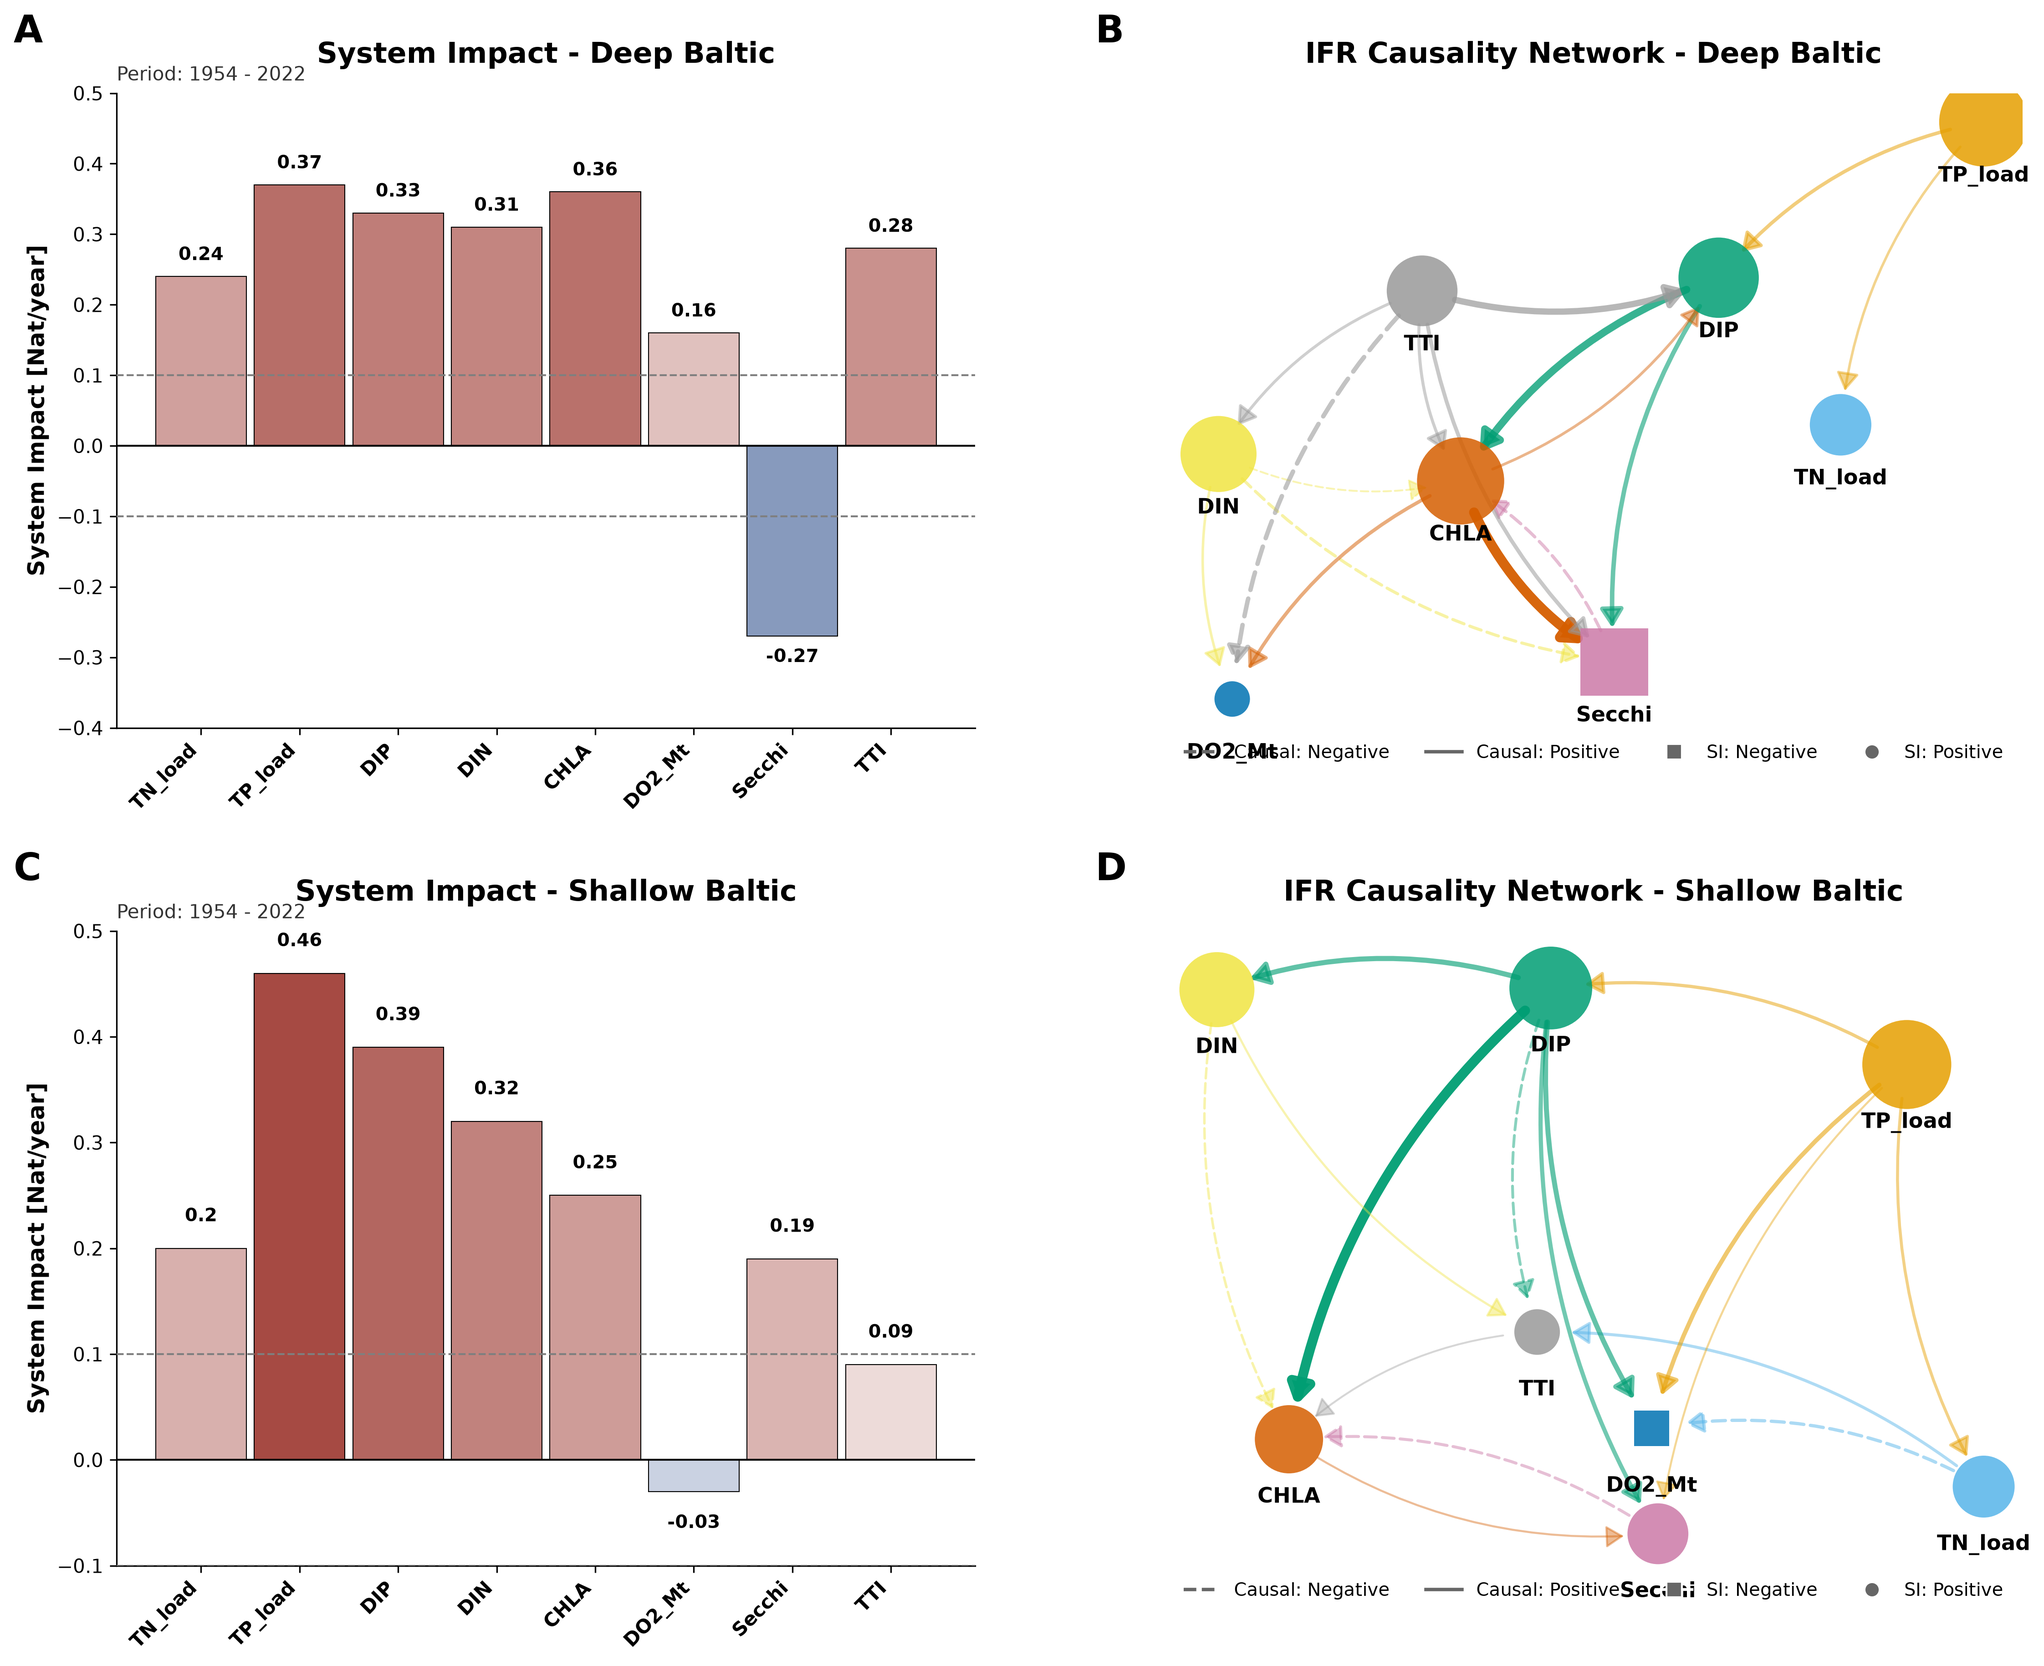
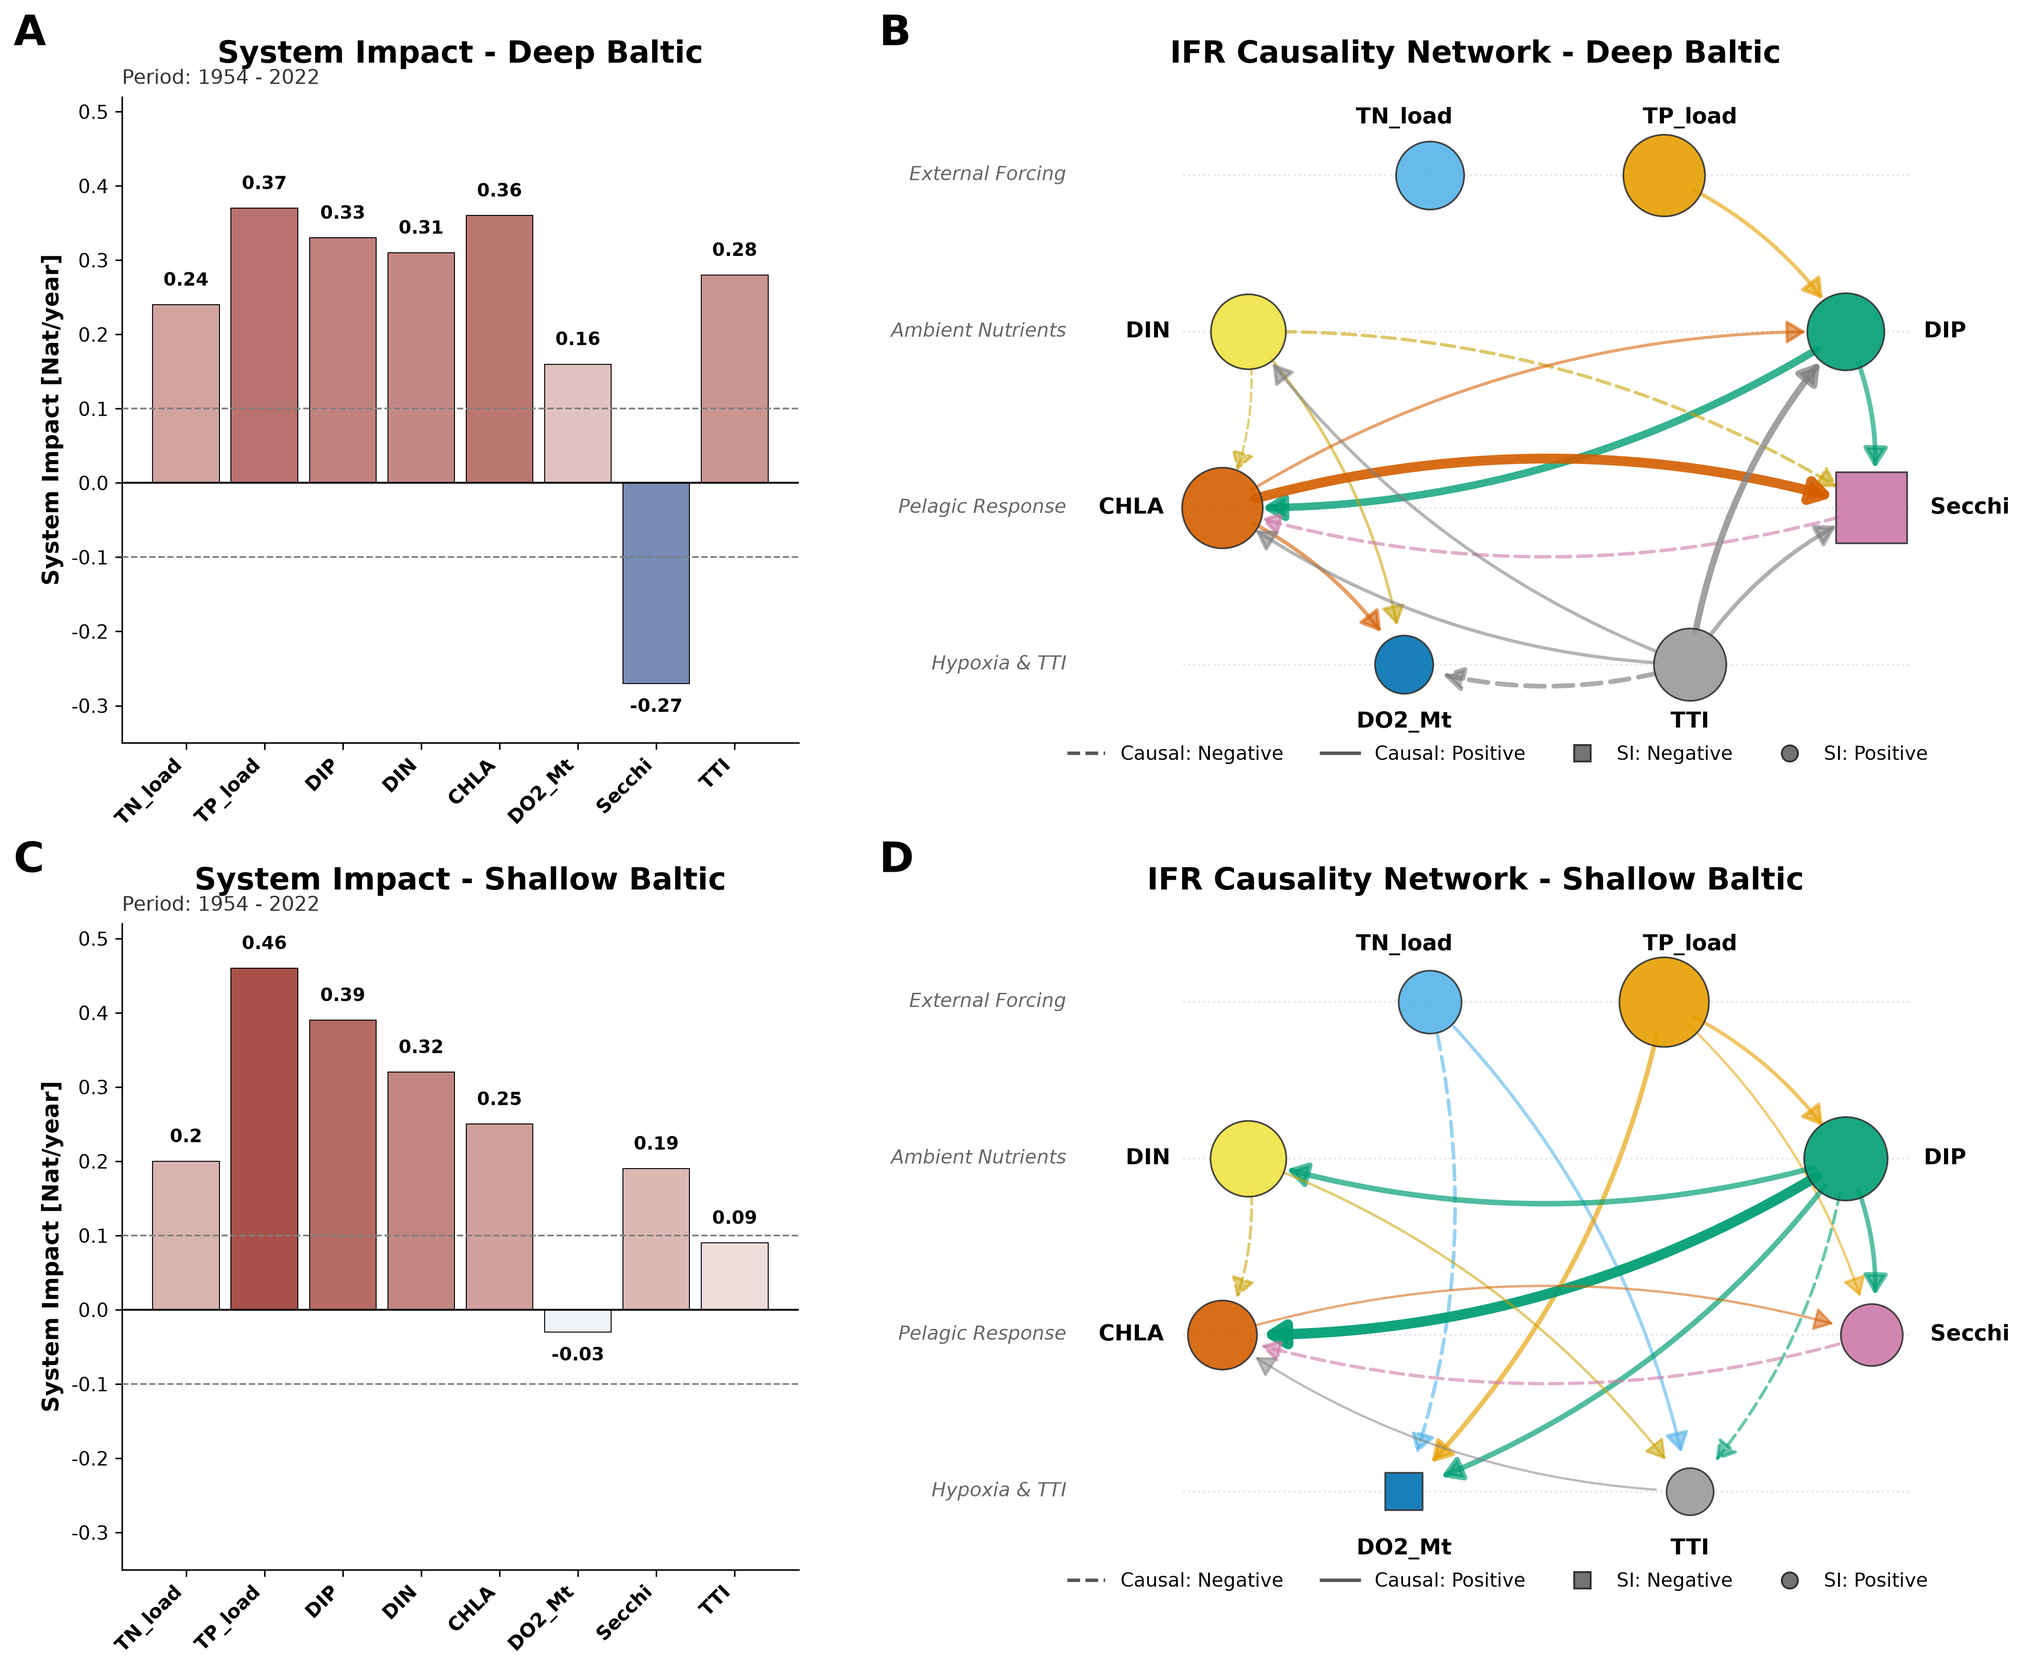
Improved Fig 5 network plot

diff --git a/Plot_Fig5_Final_SI_IFR_network_causal_analysis_Baltic_ecosystem_2026_06_11.py b/Plot_Fig5_Final_SI_IFR_network_causal_analysis_Baltic_ecosystem_2026_06_11.py
@@ -2,7 +2,7 @@
 """
 Baltic Ecosystem Deep and Shallow Variables
 Global System Impact (SI) and Multidimensional Information Flow Rate (IFR) Analysis
-Figure 5 for hysteresis article
+Figure 5 for hysteresis article (Hierarchical Eutrophication Cascade Layout)
 """
 
 import numpy as np
@@ -13,21 +13,66 @@ import matplotlib.pyplot as plt
 from matplotlib.colors import LinearSegmentedColormap, TwoSlopeNorm
 from matplotlib.patches import FancyArrowPatch
 from matplotlib.lines import Line2D
-import networkx as nx
 
-OKABE_ITO_NET = {
+# Okabe-Ito colorblind-friendly palette (separate node fill vs edge stroke for white-bg contrast)
+OKABE_ITO_FILL = {
     "TN_load": "#56B4E9",  # Light Blue
     "TP_load": "#E69F00",  # Orange
     "DIP":     "#009E73",  # Bluish Green
-    "DIN":     "#F0E442",  # Yellow
+    "DIN":     "#F0E442",  # Yellow (outlined in dark grey on nodes)
     "CHLA":    "#D55E00",  # Vermillion
     "DO2_Mt":  "#0072B2",  # Dark Blue
     "Secchi":  "#CC79A7",  # Reddish Purple
     "TTI":     "#999999"   # Grey
 }
 
+OKABE_ITO_EDGE = {
+    "TN_load": "#56B4E9",
+    "TP_load": "#E69F00",
+    "DIP":     "#009E73",
+    "DIN":     "#C8A200",  # Deeper gold so DIN arrows are clearly legible on white
+    "CHLA":    "#D55E00",
+    "DO2_Mt":  "#0072B2",
+    "Secchi":  "#CC79A7",
+    "TTI":     "#7F7F7F"
+}
+
+# Fixed 4-tier mechanistic eutrophication cascade coordinates in [0, 1] x [0, 1]
+TIER_COORDS = {
+    "TN_load": (0.32, 1.00),  # Tier 1: External Forcing (N pathway)
+    "TP_load": (0.68, 1.00),  # Tier 1: External Forcing (P pathway)
+    "DIN":     (0.04, 0.68),  # Tier 2: Ambient Nutrients (N pathway)
+    "DIP":     (0.96, 0.68),  # Tier 2: Ambient Nutrients (P pathway)
+    "CHLA":    (0.00, 0.32),  # Tier 3: Pelagic Response (Biomass)
+    "Secchi":  (1.00, 0.32),  # Tier 3: Pelagic Response (Clarity)
+    "DO2_Mt":  (0.28, 0.00),  # Tier 4: Benthic Hypoxia & Trophic State
+    "TTI":     (0.72, 0.00),  # Tier 4: Benthic Hypoxia & Trophic State
+}
+
+# Outward label offsets: (lx, ly, ha, va)
+NODE_LABELS = {
+    "TN_load": ( 0.28,  1.095, "center", "bottom"),
+    "TP_load": ( 0.72,  1.095, "center", "bottom"),
+    "DIN":     (-0.08,  0.680, "right",  "center"),
+    "DIP":     ( 1.08,  0.680, "left",   "center"),
+    "CHLA":    (-0.09,  0.320, "right",  "center"),
+    "Secchi":  ( 1.09,  0.320, "left",   "center"),
+    "DO2_Mt":  ( 0.28, -0.095, "center", "top"),
+    "TTI":     ( 0.72, -0.095, "center", "top"),
+}
+
+TIER_GUIDES = [
+    (1.00, "External Forcing"),
+    (0.68, "Ambient Nutrients"),
+    (0.32, "Pelagic Response"),
+    (0.00, "Hypoxia & TTI"),
+]
+
+
 def r_scale(df_or_arr):
+    """Replicates R's scale() using sample standard deviation (ddof=1)."""
     return (df_or_arr - np.mean(df_or_arr, axis=0)) / np.std(df_or_arr, axis=0, ddof=1)
+
 
 def global_impact(xxx, np_lag=1):
     """Exact translation of Liang's Global System Impact (GI / SI) function."""
@@ -57,6 +102,7 @@ def global_impact(xxx, np_lag=1):
 
     T1 = np.trace(invC1[1:M, 1:M] @ AC[1:M, 1:M]) - np.trace(A[1:M, 1:M])
     return float(T1)
+
 
 def causal_error_multidim_95(xxx, np_lag=1):
     """Exact translation of Liang (2021) multidimensional Information Flow Rate (T21) and 95% CI."""
@@ -110,6 +156,7 @@ def causal_error_multidim_95(xxx, np_lag=1):
 
     return float(T21), float(err95)
 
+
 def compute_region_metrics(plot_data, var_names):
     x = np.asarray(plot_data, dtype=float)
     M = x.shape[1]
@@ -132,102 +179,110 @@ def compute_region_metrics(plot_data, var_names):
     infoflow = np.round(TT, 2)
     return GG1, gg_ad, infoflow
 
-def plot_gi_panel(ax, var_names, gg_ad, region_name, s_date, e_date, panel_label):
-    ymin = np.floor(np.min(gg_ad) * 10.0 - 0.4) / 10.0
-    ymax = np.ceil(np.max(gg_ad) * 10.0 + 0.35) / 10.0
 
-    # Muted Blue - White - Muted Red diverging colormap
+def plot_gi_panel(ax, var_names, gg_ad, region_name, s_date, e_date, panel_label):
+    # Shared y-axis and colour limits across Deep & Shallow for direct visual comparison
+    ymin, ymax = -0.35, 0.52
+
     cmap = LinearSegmentedColormap.from_list("si_div", ["#4E6A9E", "#FFFFFF", "#9E3B33"])
-    norm = TwoSlopeNorm(vmin=min(ymin, -0.05), vcenter=0.0, vmax=max(ymax, 0.05))
+    norm = TwoSlopeNorm(vmin=ymin, vcenter=0.0, vmax=ymax)
     colors = [cmap(norm(val)) for val in gg_ad]
 
     x_pos = np.arange(len(var_names))
-    ax.bar(x_pos, gg_ad, width=0.92, color=colors, edgecolor="black", linewidth=0.5, zorder=2)
+    ax.bar(x_pos, gg_ad, width=0.85, color=colors, edgecolor="black", linewidth=0.5, zorder=2)
 
     for idx, val in enumerate(gg_ad):
-        y_txt = val + 0.03 * (1 if val >= 0 else -1)
+        y_txt = val + 0.032 * (1 if val >= 0 else -1)
         ax.text(idx, y_txt, f"{val:.2g}" if val in [0.2] else f"{val:.2f}",
                 ha="center", va="center", fontweight="bold", fontsize=9.5, zorder=4)
 
     ax.axhline(0, color="black", linewidth=1.0, zorder=3)
-    ax.axhline(0.1, color="#7F7F7F", linestyle="--", linewidth=1.0, zorder=3)
-    ax.axhline(-0.1, color="#7F7F7F", linestyle="--", linewidth=1.0, zorder=3)
+    ax.axhline(0.1, color="#7F7F7F", linestyle="--", linewidth=0.9, zorder=3)
+    ax.axhline(-0.1, color="#7F7F7F", linestyle="--", linewidth=0.9, zorder=3)
 
+    yticks = np.round(np.arange(-0.3, 0.55, 0.1), 1)
     ax.set_ylim(ymin, ymax)
+    ax.set_yticks(yticks)
+    ax.set_yticklabels([f"{y:.1f}" for y in yticks], fontsize=10)
+
     ax.set_xticks(x_pos)
     ax.set_xticklabels(var_names, rotation=45, ha="right", fontweight="bold", fontsize=10)
     ax.set_ylabel("System Impact [Nat/year]", fontsize=12, fontweight="bold")
-    ax.set_title(f"System Impact - {region_name}", fontsize=15, fontweight="bold", pad=16)
-    ax.text(0.0, 1.02, f"Period: {s_date} - {e_date}", transform=ax.transAxes, fontsize=10, color="#333333")
-    ax.text(-0.12, 1.08, panel_label, transform=ax.transAxes, fontsize=20, fontweight="bold")
+    ax.set_title(f"System Impact - {region_name}", fontsize=16, fontweight="bold", pad=18)
+    ax.text(0.0, 1.02, f"Period: {s_date} - {e_date}", transform=ax.transAxes, fontsize=10.5, color="#333333")
+    ax.text(-0.16, 1.08, panel_label, transform=ax.transAxes, fontsize=22, fontweight="bold")
 
     ax.spines["top"].set_visible(False)
     ax.spines["right"].set_visible(False)
+
 
 def plot_network_panel(ax, var_names, GG1, infoflow, region_name, panel_label):
     adj = infoflow.copy()
     adj[np.isnan(adj)] = 0.0
     adj[np.abs(adj) < 0.1] = 0.0
 
-    G = nx.DiGraph()
-    for idx, name in enumerate(var_names):
-        G.add_node(name, gi_abs=abs(GG1[idx]), gi_sign="Negative" if GG1[idx] < 0 else "Positive")
+    # Enforce exogenous boundary condition: external loads cannot receive causal inflows
+    exog_indices = [i for i, name in enumerate(var_names) if name in ("TN_load", "TP_load")]
+    adj[:, exog_indices] = 0.0
 
+    # Subtle horizontal functional tier guide lines & left-margin labels
+    for ty, tlabel in TIER_GUIDES:
+        ax.plot([-0.06, 1.06], [ty, ty], color="#E5E5E5", linestyle=":", linewidth=1.0, zorder=0)
+        ax.text(-0.24, ty, tlabel, fontsize=10, color="#666666", fontstyle="italic",
+                ha="right", va="center", zorder=1)
+
+    # Fixed global SI node-size scaling [0, 0.50] across Deep and Shallow
+    gi_abs = np.clip(np.abs(GG1), 0.0, 0.50)
+    node_sizes = 240 + (gi_abs / 0.50) * 2150
+
+    for idx, n in enumerate(var_names):
+        px, py = TIER_COORDS[n]
+        marker = "s" if GG1[idx] < 0 else "o"
+        ax.scatter(px, py, s=node_sizes[idx], facecolor=OKABE_ITO_FILL[n],
+                   marker=marker, alpha=0.90, edgecolors="#333333", linewidths=0.9, zorder=3)
+        lx, ly, ha, va = NODE_LABELS[n]
+        ax.text(lx, ly, n, fontsize=11.5, fontweight="bold",
+                ha=ha, va=va, color="black", zorder=5)
+
+    # Directed causal edges with fixed global IFR scaling [0.10, 0.65]
     M = len(var_names)
     for i in range(M):
         for j in range(M):
-            if adj[i, j] != 0:
-                G.add_edge(var_names[i], var_names[j], weight=adj[i, j],
-                           flow_strength=abs(adj[i, j]),
-                           flow_sign="Positive" if adj[i, j] > 0 else "Negative")
+            w = adj[i, j]
+            if w != 0.0:
+                u, v = var_names[i], var_names[j]
+                s_abs = abs(w)
+                norm_s = np.clip((s_abs - 0.10) / (0.65 - 0.10), 0.0, 1.0)
+                lw = 1.1 + norm_s * 4.5
+                alpha = 0.52 + norm_s * 0.43
+                ls = "solid" if w > 0 else (0, (4, 2))
 
-    pos = nx.kamada_kawai_layout(G, weight=None)
+                # rad=-0.15 bends clockwise (right-hand rule), matching ggplot2 curvature=+0.15
+                patch = FancyArrowPatch(
+                    posA=TIER_COORDS[u], posB=TIER_COORDS[v],
+                    connectionstyle="arc3,rad=-0.15",
+                    arrowstyle="-|>,head_length=8.5,head_width=5.2",
+                    color=OKABE_ITO_EDGE[u], linewidth=lw, linestyle=ls, alpha=alpha,
+                    shrinkA=18, shrinkB=21, zorder=2
+                )
+                ax.add_patch(patch)
 
-    # Scale node sizes and edge widths
-    gi_vals = np.array([G.nodes[n]["gi_abs"] for n in var_names])
-    g_min, g_max = gi_vals.min(), max(gi_vals.max(), gi_vals.min() + 1e-6)
-    node_sizes = 350 + (gi_vals - g_min) / (g_max - g_min) * 1850
-
-    for idx, n in enumerate(var_names):
-        marker = "s" if G.nodes[n]["gi_sign"] == "Negative" else "o"
-        ax.scatter(pos[n][0], pos[n][1], s=node_sizes[idx], color=OKABE_ITO_NET[n],
-                   marker=marker, alpha=0.85, edgecolors="none", zorder=3)
-        ax.text(pos[n][0], pos[n][1] - 0.09, n, fontsize=11, fontweight="bold", ha="center", va="top", zorder=5)
-
-    edges = list(G.edges(data=True))
-    if edges:
-        strengths = np.array([d["flow_strength"] for _, _, d in edges])
-        s_min, s_max = strengths.min(), max(strengths.max(), strengths.min() + 1e-6)
-
-        for u, v, d in edges:
-            norm_s = (d["flow_strength"] - s_min) / (s_max - s_min) if s_max > s_min else 0.5
-            lw = 1.0 + norm_s * 4.2
-            alpha = 0.40 + norm_s * 0.55
-            ls = "solid" if d["flow_sign"] == "Positive" else (0, (4, 2))
-            edge_col = OKABE_ITO_NET[u]
-
-            patch = FancyArrowPatch(
-                posA=pos[u], posB=pos[v],
-                connectionstyle="arc3,rad=0.18",
-                arrowstyle="-|>,head_length=8,head_width=5",
-                color=edge_col, linewidth=lw, linestyle=ls, alpha=alpha,
-                shrinkA=18, shrinkB=18, zorder=2
-            )
-            ax.add_patch(patch)
-
-    ax.set_title(f"IFR Causality Network - {region_name}", fontsize=15, fontweight="bold", pad=16)
-    ax.text(-0.08, 1.08, panel_label, transform=ax.transAxes, fontsize=20, fontweight="bold")
+    ax.set_xlim(-0.46, 1.24)
+    ax.set_ylim(-0.16, 1.16)
+    ax.set_title(f"IFR Causality Network - {region_name}", fontsize=16, fontweight="bold", pad=18)
+    ax.text(-0.04, 1.08, panel_label, transform=ax.transAxes, fontsize=22, fontweight="bold")
     ax.axis("off")
 
-    # Add compact bottom legend
+    # Compact bottom legend matching R version
     legend_elements = [
-        Line2D([0], [0], color="#666666", lw=1.8, ls="--", label="Causal: Negative"),
-        Line2D([0], [0], color="#666666", lw=1.8, ls="-", label="Causal: Positive"),
-        Line2D([0], [0], marker="s", color="w", markerfacecolor="#666666", markersize=8, label="SI: Negative"),
-        Line2D([0], [0], marker="o", color="w", markerfacecolor="#666666", markersize=8, label="SI: Positive")
+        Line2D([0], [0], color="#555555", lw=1.8, ls="--", label="Causal: Negative"),
+        Line2D([0], [0], color="#555555", lw=1.8, ls="-", label="Causal: Positive"),
+        Line2D([0], [0], marker="s", color="w", markerfacecolor="#737373", markeredgecolor="#333333", markersize=8.5, label="SI: Negative"),
+        Line2D([0], [0], marker="o", color="w", markerfacecolor="#737373", markeredgecolor="#333333", markersize=8.5, label="SI: Positive"),
     ]
-    ax.legend(handles=legend_elements, loc="lower center", bbox_to_anchor=(0.5, -0.08),
-              ncol=4, frameon=False, fontsize=9.5)
+    ax.legend(handles=legend_elements, loc="lower center", bbox_to_anchor=(0.52, -0.06),
+              ncol=4, frameon=False, fontsize=10)
+
 
 def main():
     grand_df = pd.read_csv("Baltic_variables_Mt_4_Causal_Input.csv")
@@ -247,17 +302,18 @@ def main():
     print("Deep SI:", {k: float(v) for k, v in zip(clean_names, gg_ad_deep)})
     print("Shallow SI:", {k: float(v) for k, v in zip(clean_names, gg_ad_shal)})
 
-    fig, axes = plt.subplots(2, 2, figsize=(18, 14), dpi=300)
-    fig.subplots_adjust(wspace=0.22, hspace=0.32)
+    fig = plt.figure(figsize=(18, 14), dpi=300)
+    gs = fig.add_gridspec(2, 2, width_ratios=[0.38, 0.62], wspace=0.14, hspace=0.28)
 
-    plot_gi_panel(axes[0, 0], clean_names, gg_ad_deep, "Deep Baltic", s_date, e_date, "A")
-    plot_network_panel(axes[0, 1], clean_names, GG_deep, ifr_deep, "Deep Baltic", "B")
-    plot_gi_panel(axes[1, 0], clean_names, gg_ad_shal, "Shallow Baltic", s_date, e_date, "C")
-    plot_network_panel(axes[1, 1], clean_names, GG_shal, ifr_shal, "Shallow Baltic", "D")
+    plot_gi_panel(fig.add_subplot(gs[0, 0]), clean_names, gg_ad_deep, "Deep Baltic", s_date, e_date, "A")
+    plot_network_panel(fig.add_subplot(gs[0, 1]), clean_names, GG_deep, ifr_deep, "Deep Baltic", "B")
+    plot_gi_panel(fig.add_subplot(gs[1, 0]), clean_names, gg_ad_shal, "Shallow Baltic", s_date, e_date, "C")
+    plot_network_panel(fig.add_subplot(gs[1, 1]), clean_names, GG_shal, ifr_shal, "Shallow Baltic", "D")
 
     plt.savefig("Figure_5_Baltic_Causality_Combined.png", dpi=300, bbox_inches="tight", facecolor="white")
     plt.close(fig)
     print("Analysis complete. Figure 5 successfully saved.")
+
 
 if __name__ == "__main__":
     main()
